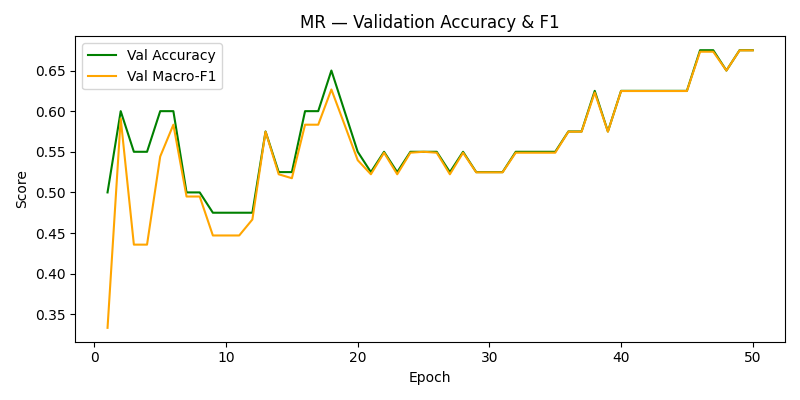
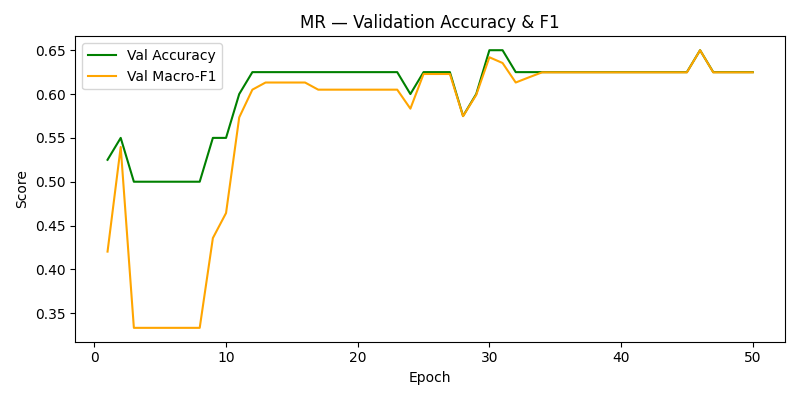
Reasonable results for MR dataset

diff --git a/src/train.py b/src/train.py
@@ -44,7 +44,6 @@ class GIFTTrainer:
         self.entity_graph_builder = EntityGraphBuilder(config["transe_path"], config["mapping_path"])
         self.pos_graph_builder = POSGraphBuilder()
         self.td_builder = TDMatrixBuilder()
-        self.encoder = TextEncoder()
         self.svd = SVDViewGenerator(k=config["svd_k"])
 
         self.model = GIFTModel(
@@ -328,33 +327,42 @@ if __name__ == "__main__":
         Z_org.shape[1] == config["input_dim"]
         print("Z_org shape:", Z_org.shape)
         
-        # Allow clusters to envolve with embedddings
-        if epoch % 10 == 0:
-            with torch.no_grad():
-                weak_labels = trainer.run_kmeans(
-                    Z_org.detach().cpu().numpy(),
-                    train_labeled_idx,
-                    labels_tensor[train_labeled_idx]
-                )
-
-            weak_labels_tensor = torch.full(
-                (len(weak_labels),),
-                -1,
-                dtype=torch.long
+        # Run k-means every epoch on current Z_org
+        with torch.no_grad():
+            weak_labels = trainer.run_kmeans(
+                Z_org.detach().cpu().numpy(),
+                train_labeled_idx,
+                labels_tensor[train_labeled_idx]
             )
+        weak_labels_tensor = torch.tensor(weak_labels, dtype=torch.long)
+        
+        # Allow clusters to envolve with embedddings
+        # if epoch % 10 == 0:
+        #     with torch.no_grad():
+        #         (weak_labels = trainer.run_kmeans
+        #             Z_org.detach().cpu().numpy(),
+        #             train_labeled_idx,
+        #             labels_tensor[train_labeled_idx]
+        #         )
 
-            weak_labels_np = np.array(weak_labels)
-            cluster_counts = np.bincount(weak_labels_np[weak_labels_np >= 0])
+        #     weak_labels_tensor = torch.full(
+        #         (len(weak_labels),),
+        #         -1,
+        #         dtype=torch.long
+        #     )
 
-            for i, label in enumerate(weak_labels):
-                if label >= 0 and cluster_counts[label] < 0.9 * len(weak_labels):
-                    weak_labels_tensor[i] = label
+        #     weak_labels_np = np.array(weak_labels)
+        #     cluster_counts = np.bincount(weak_labels_np[weak_labels_np >= 0])
 
-            # Preserve labels
-            for idx in train_labeled_idx:
-                weak_labels_tensor[idx] = labels_tensor[idx]
+        #     for i, label in enumerate(weak_labels):
+        #         if label >= 0 and cluster_counts[label] < 0.9 * len(weak_labels):
+        #             weak_labels_tensor[i] = label
 
-            print("Refreshed k-means labels")
+        #     # Preserve labels
+        #     for idx in train_labeled_idx:
+        #         weak_labels_tensor[idx] = labels_tensor[idx]
+
+        #     print("Refreshed k-means labels")
 
         outputs = trainer.model(
             Z_org,

diff --git a/src/graph/pmi.py b/src/graph/pmi.py
@@ -15,22 +15,21 @@ class PMIBuilder:
 
         total_docs = len(documents)
 
+        window_size = 5
+
         for doc_nodes in documents:
-            unique_nodes = set(doc_nodes)
+            for i in range(len(doc_nodes)):
+                window = doc_nodes[i:i + window_size]
+                unique_nodes = set(window)
+                for node in unique_nodes:
+                    node_count[node] += 1
+                for n1, n2 in combinations(sorted(unique_nodes), 2):
+                    pair_count[(n1, n2)] += 1
 
-            for node in unique_nodes:
-                node_count[node] += 1
-
-            for n1, n2 in combinations(
-                sorted(unique_nodes),
-                2
-            ):
-                pair_count[(n1, n2)] += 1
-
-        A = np.zeros(
-            (len(nodes), len(nodes)),
-            dtype=np.float32
-        )
+                A = np.zeros(
+                    (len(nodes), len(nodes)),
+                    dtype=np.float32
+                )
 
         for (n1, n2), cooccur in pair_count.items():
             p_i = node_count[n1] / total_docs

diff --git a/src/clustering/constrained_seed_kmeans.py b/src/clustering/constrained_seed_kmeans.py
@@ -17,7 +17,6 @@ class ConstrainedSeedKMeans:
         print(f"  n_seeds: {len(seed_indices)}")
         print(f"  n_clusters: {self.num_clusters}")
         print(f"  diff array would be: ({len(embeddings) - len(seed_indices)}, {self.num_clusters}, {embeddings.shape[1]})")
-        print(f"  estimated memory: {(len(embeddings) * self.num_clusters * embeddings.shape[1] * 4) / 1e9:.2f} GB")
         embeddings = np.asarray(embeddings, dtype=np.float32)
         n_samples = embeddings.shape[0]
 
@@ -40,8 +39,6 @@ class ConstrainedSeedKMeans:
         unlabeled_idx = np.where(unlabeled_mask)[0]
 
         for i in range(self.max_iter):
-            print(f"  k-means iter {i+1}")
-            t0 = time.time()
             old_centroids = centroids.copy()
 
             X = embeddings[unlabeled_idx]
@@ -50,17 +47,13 @@ class ConstrainedSeedKMeans:
             cross = X @ centroids.T
             distances = np.sqrt(np.maximum(X_sq - 2 * cross + C_sq.T, 0))
             labels[unlabeled_idx] = np.argmin(distances, axis=1)
-            print(f"  iter {i+1} distances: {time.time()-t0:.3f}s")
 
-            t1 = time.time()
             for k in range(self.num_clusters):
                 members = embeddings[labels == k]
                 if len(members) > 0:
                     centroids[k] = members.mean(axis=0)
-            print(f"  iter {i+1} centroid update: {time.time()-t1:.3f}s")
 
             shift = np.linalg.norm(centroids - old_centroids)
-            print(f"  iter {i+1} shift: {shift:.6f}")
 
             if shift < self.tol:
                 break